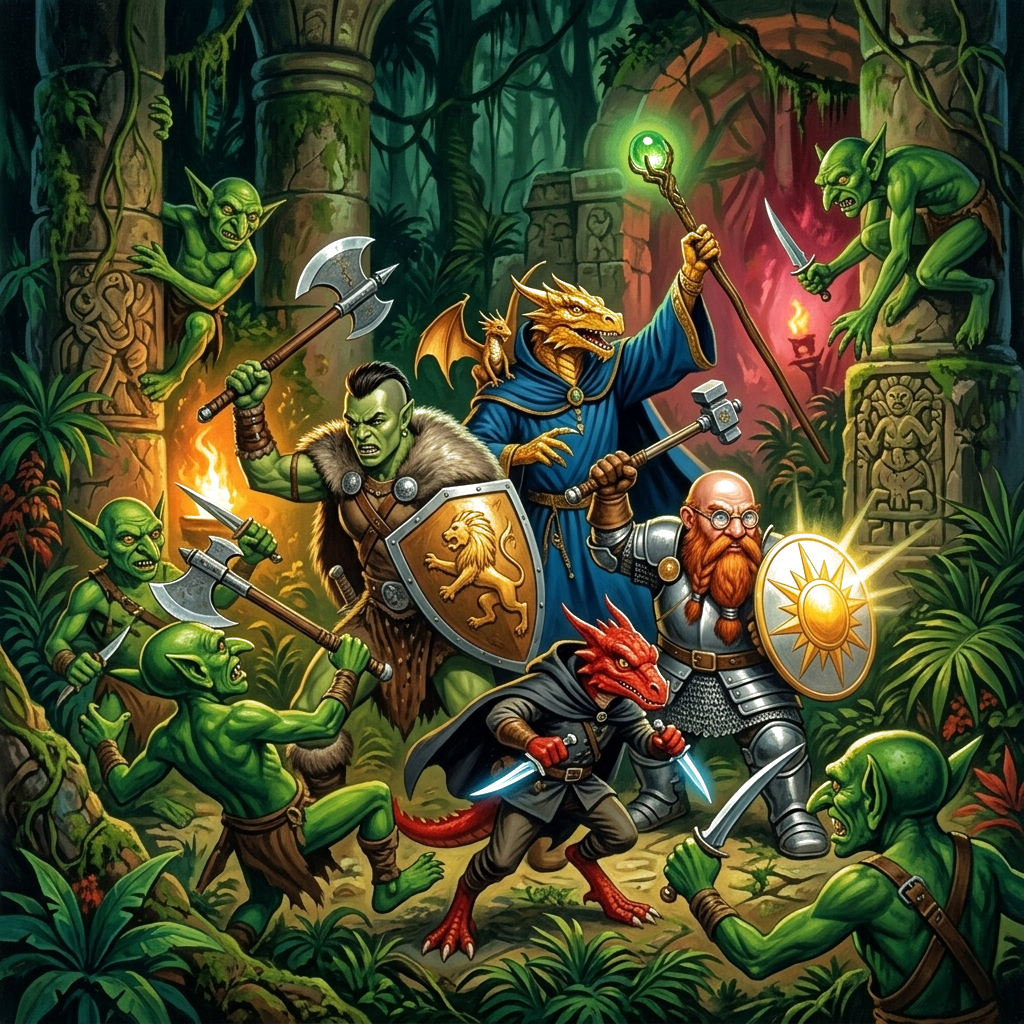
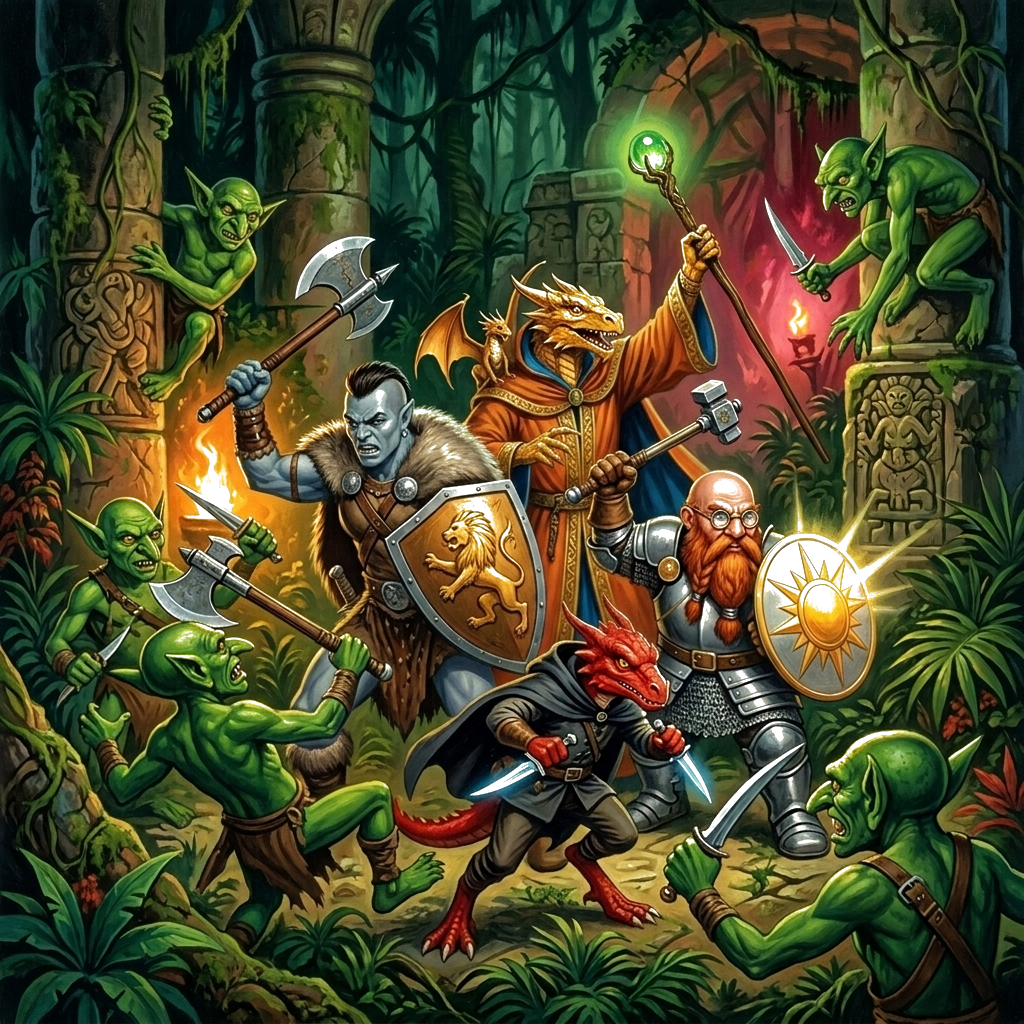
fix: update cover art with canonical Thorn pale blue-grey skin & Dave orange/terracotta robes [skip netlify]

diff --git a/src/lib/build-info.ts b/src/lib/build-info.ts
@@ -1,3 +1,3 @@
 // Generated by scripts/write-build-info.mjs — do not edit
-export const SITE_EDITION = "5a1a9de";
-export const SITE_BUILT_AT = "2026-07-27T12:10:26.918Z";
+export const SITE_EDITION = "3f0e605";
+export const SITE_BUILT_AT = "2026-07-27T12:12:51.054Z";
